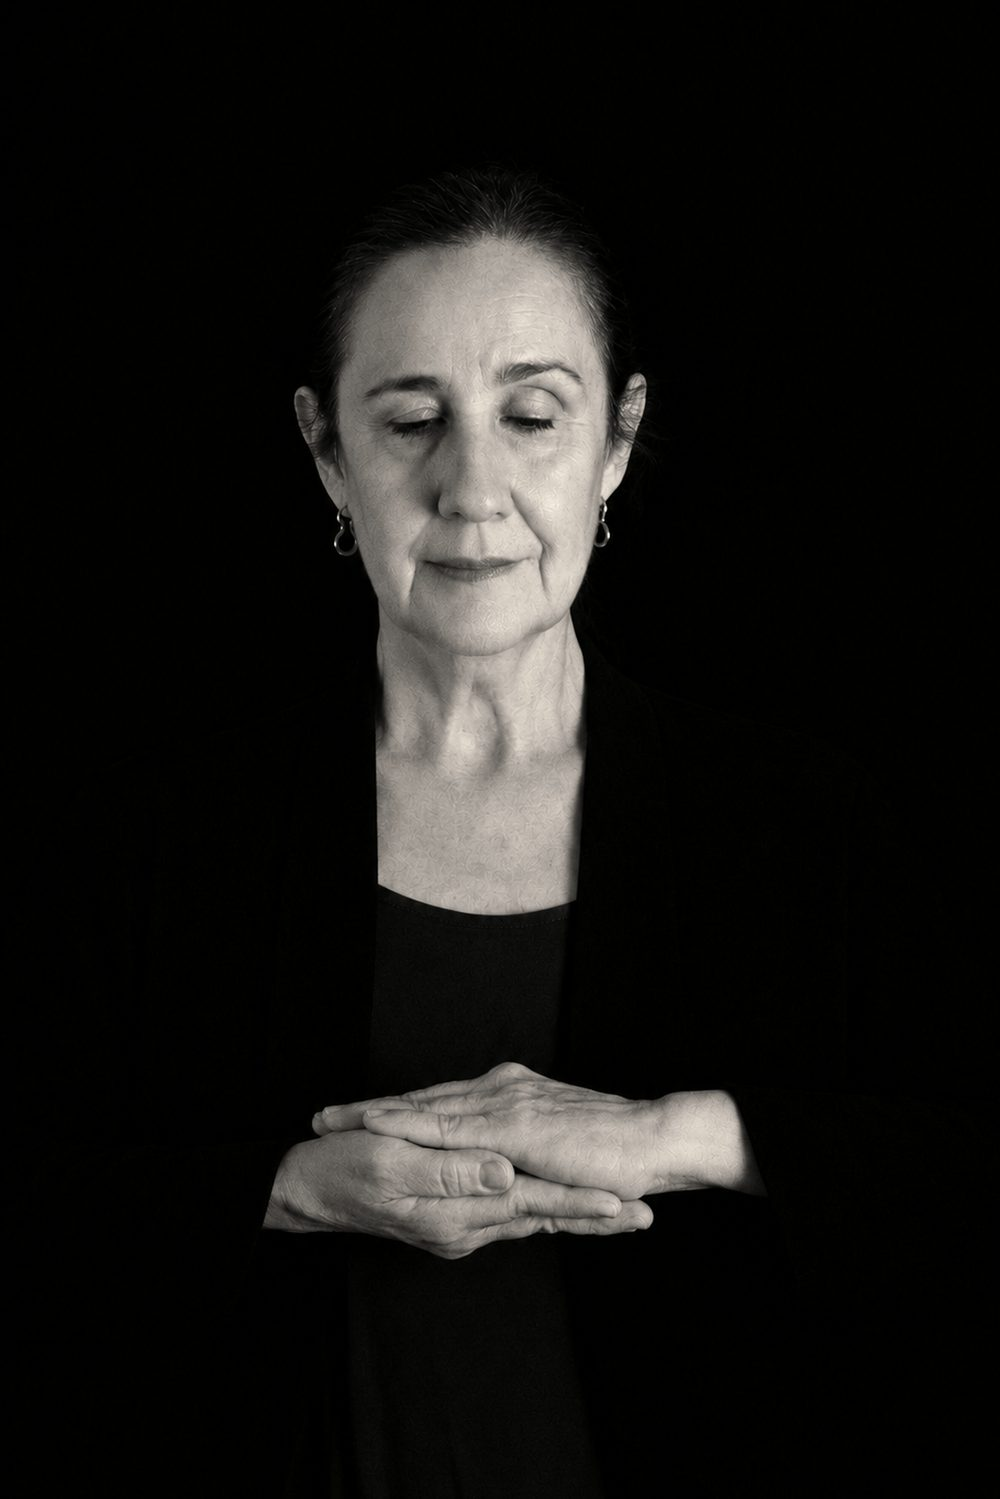
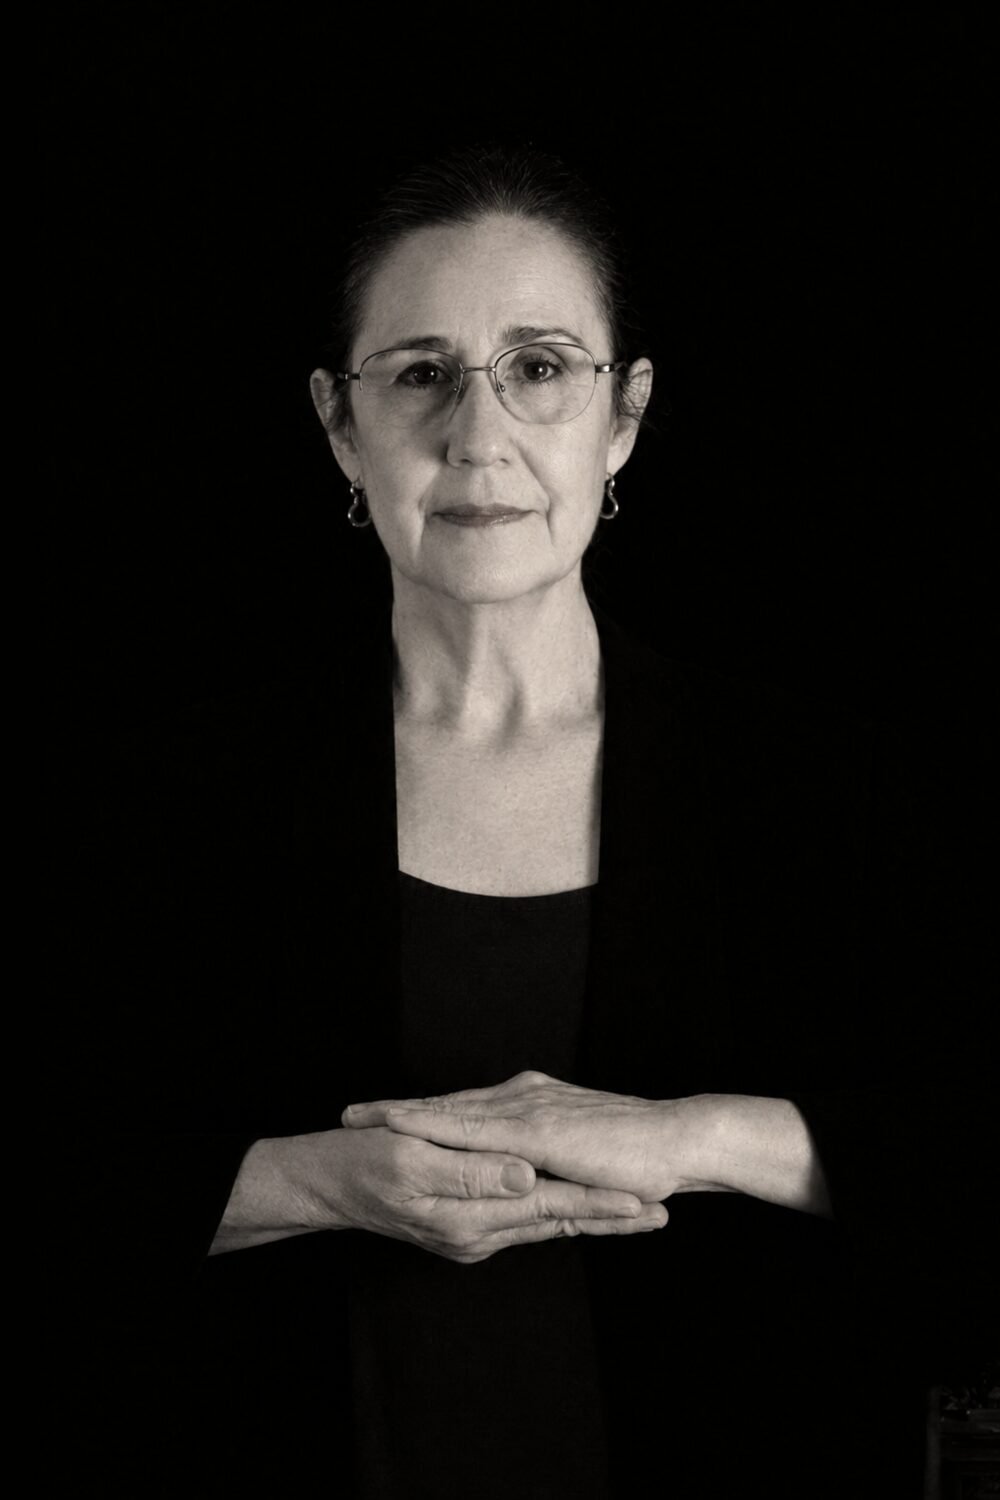
Individual regular a 52 €; retrato de frente con gafas

Changed region(s): [[0.279, 0.1227, 0.651, 0.6137], [0.217, 0.7058, 0.837, 0.8592]]

diff --git a/index.html b/index.html
@@ -243,7 +243,7 @@
 <!-- ============ PORTADA ============ -->
 <section class="portada">
   <div class="retrato">
-    <img src="img/retrato.jpg" width="1000" height="1499" alt="Milagro Ortiz, retrato en blanco y negro sobre fondo negro, con los ojos cerrados y las manos cruzadas sobre el pecho." fetchpriority="high">
+    <img src="img/retrato.jpg" width="1000" height="1500" alt="Milagro Ortiz, retrato en blanco y negro sobre fondo negro, con gafas, mirando de frente y con las manos cruzadas sobre el pecho." fetchpriority="high">
   </div>
   <div class="marco marca">
     <img class="emblema" src="img/emblema.png" width="600" height="579" alt="Emblema de Milagro Ortiz: su firma dentro de un círculo violeta y gris.">
@@ -291,7 +291,7 @@
     <ul class="tarifas">
       <li class="tarifa">
         <p class="tipo">Individual</p>
-        <p class="importe">55<span>€</span></p>
+        <p class="importe">52<span>€</span></p>
         <p class="por">por sesión</p>
       </li>
       <li class="tarifa">
